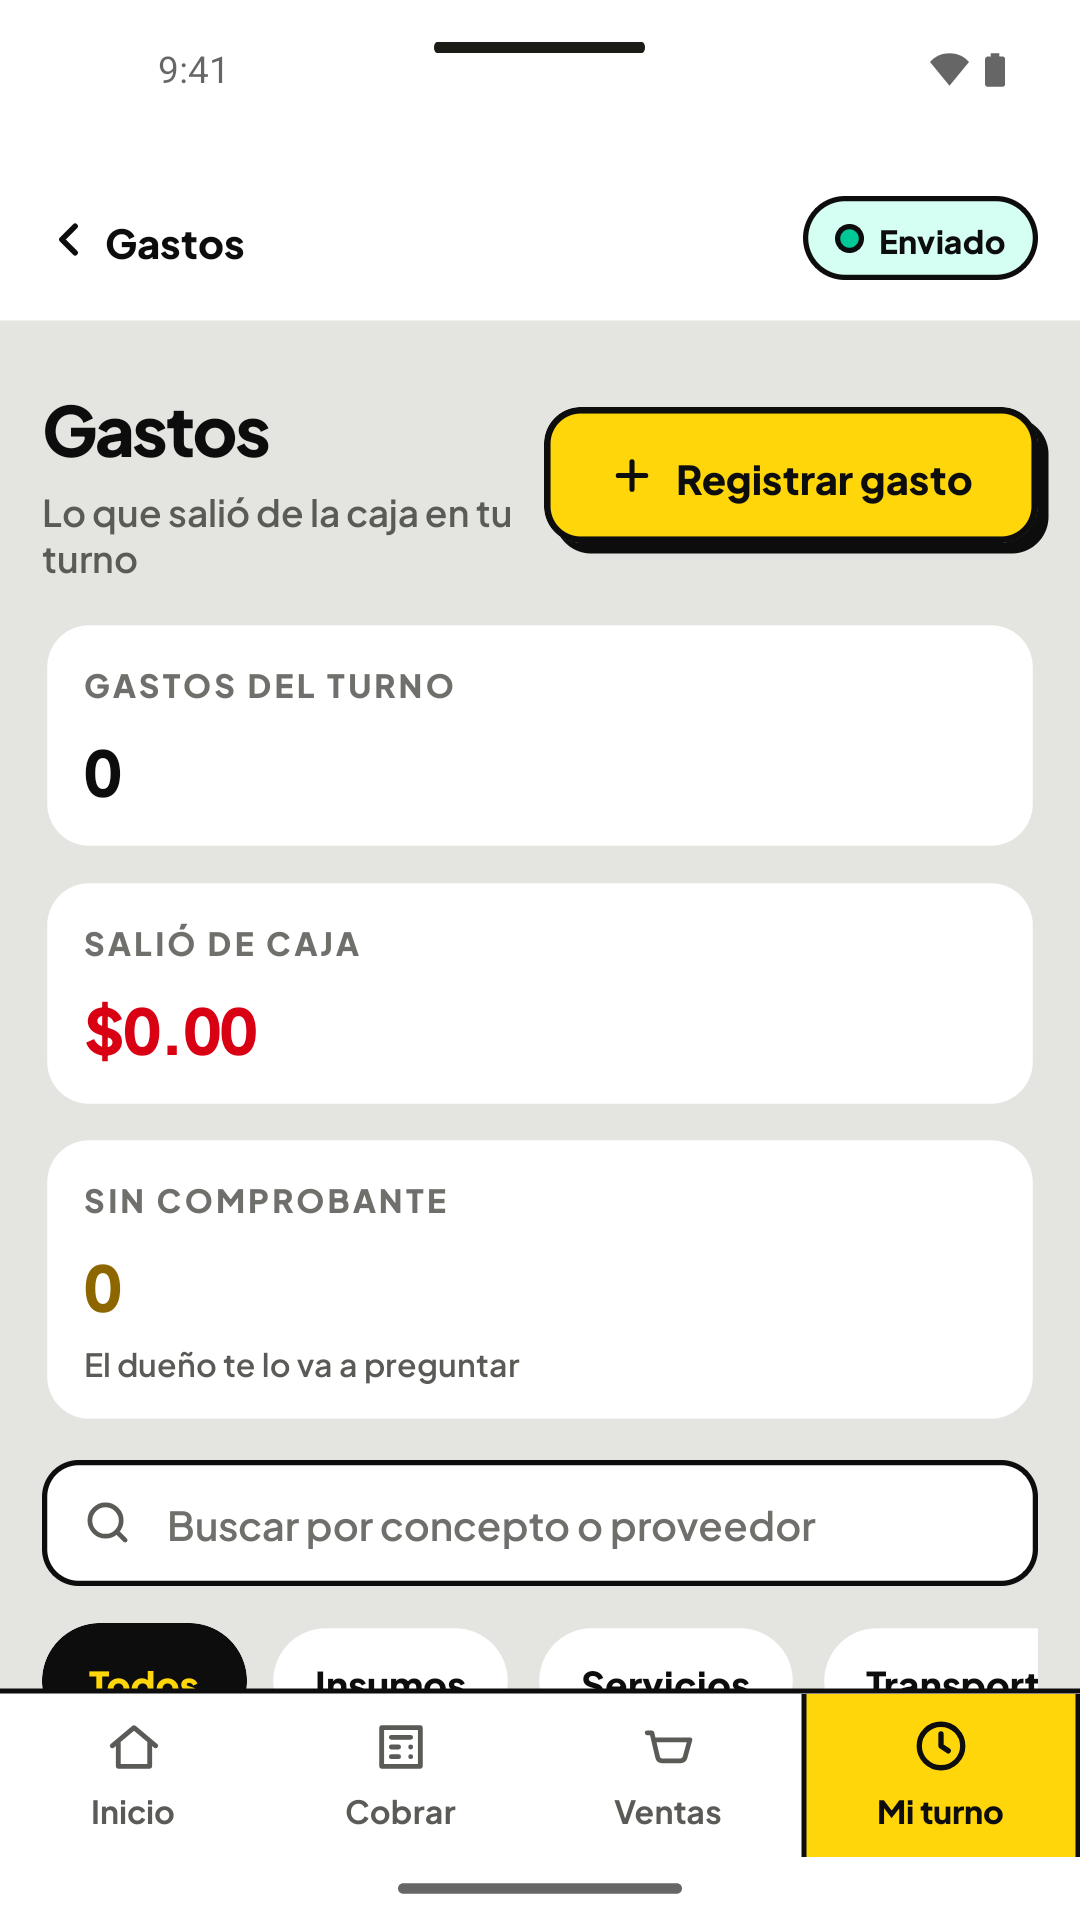
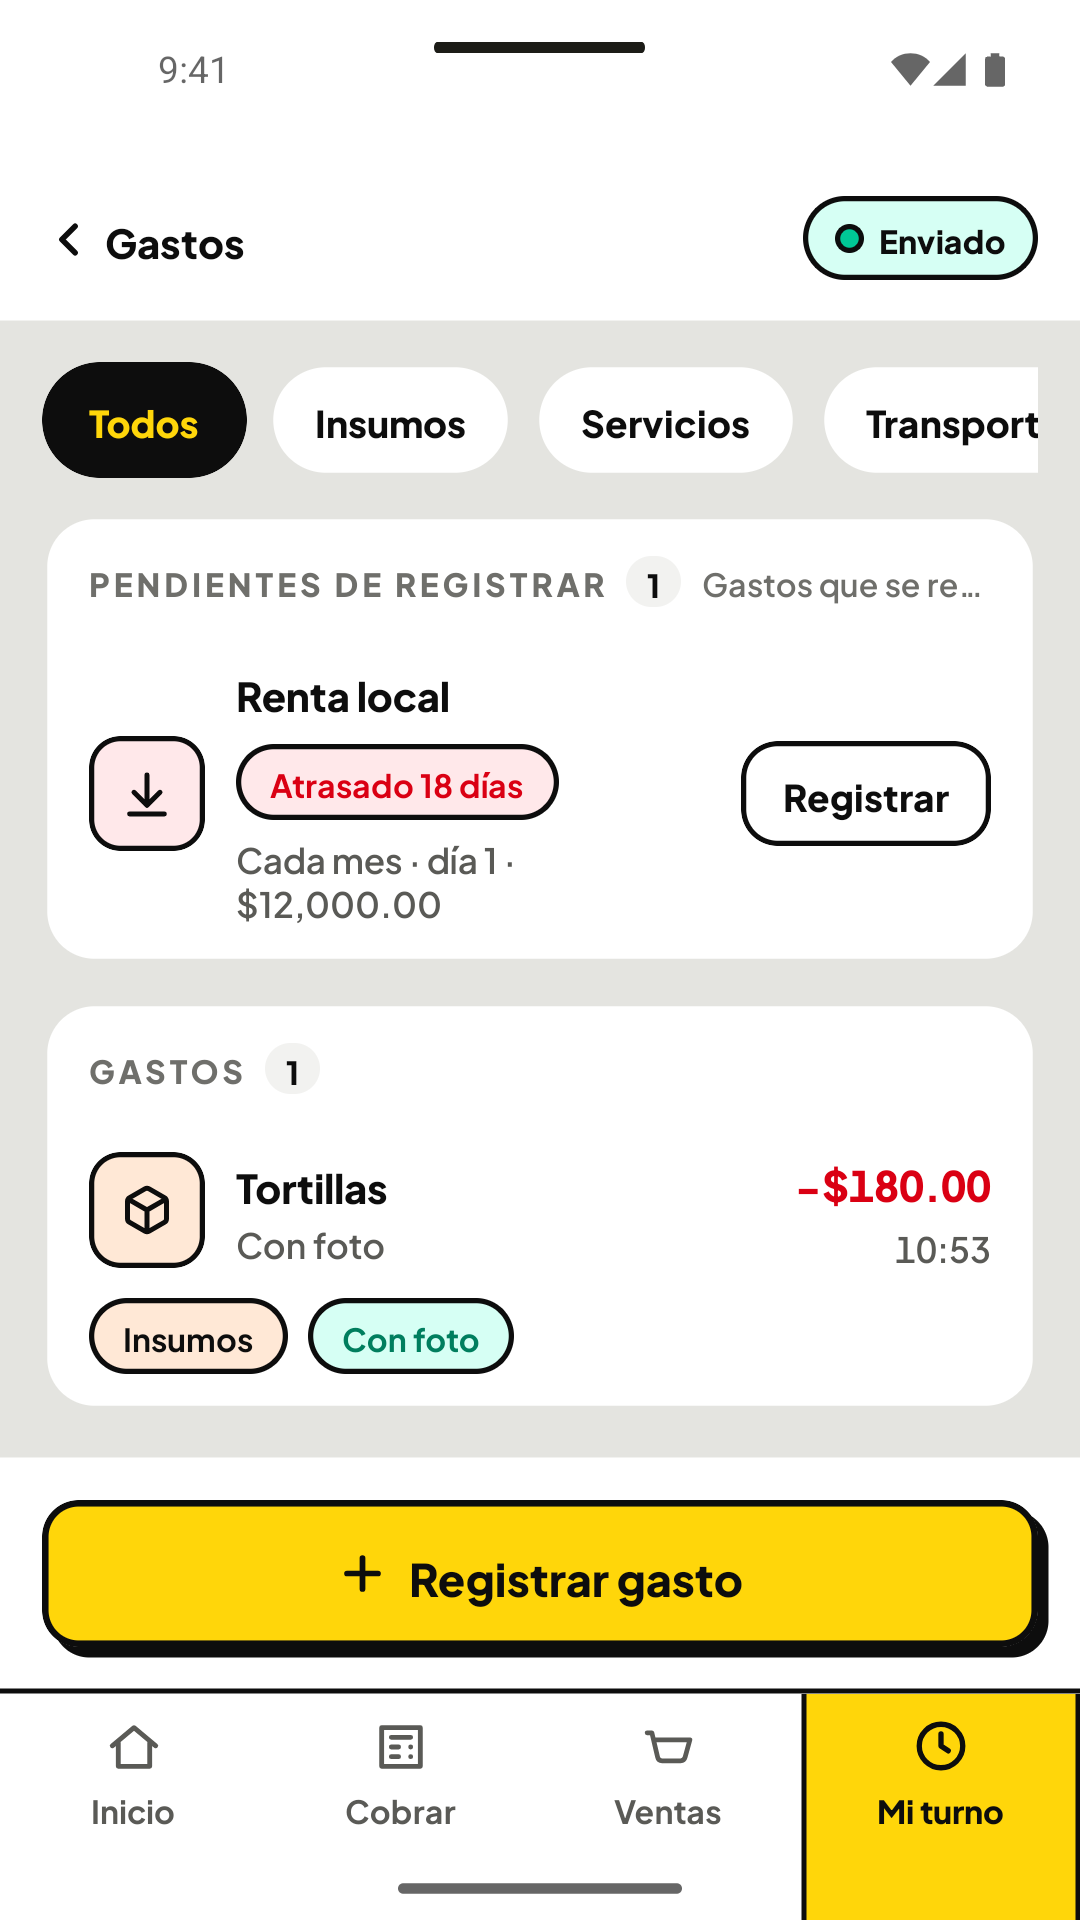
chore(store): retake the Play set in the store's order, with the receipt and the new screens
Phone (1080 × 1920) and tablet (1440 × 2560), from main: Inicio first and
Vincular last, «Caja 1», two avisos, the gasto with its photo, the redesigned
Ventas and Mi turno, signal bars, and a morning clock so Inicio says «Buenos
días». The manifest says how the debug build is prepared (no OTA signing, the
dev menu's gear off by default), how the grey box behind the app handle is
cleared, and what is still imperfect.

diff --git a/app-registration/google-play/SCREENSHOTS.md b/app-registration/google-play/SCREENSHOTS.md
@@ -1,25 +1,26 @@
 # Screenshots manifest — `screenshots/`
 
-Captured 2026-11-17 from the real app on the Android emulator, with the
-brand font (PR #117), by the same
+Captured 2026-11-19 from the real app on the Android emulator by the same
 Maestro flow as the App Store set,
 [`store-screenshots.yaml`](../../apps/mobile/maestro/flows/internal/store-screenshots.yaml),
-against the contracts mock. No compositing, no fixture screens. The story,
-the eight shots and their order are the App Store's
-([`../apple/SCREENSHOTS.md`](../apple/SCREENSHOTS.md)): a $2,000 turno, ten
-products stocked (all twenty on the tablet, whose Cobrar shows every row and
-whose Inicio lists what needs restocking), then cash with change, transfer and card.
+against the contracts mock, on `main` with the gasto's receipt photo (PR #181)
+and the redesigned Ventas and Mi turno (PRs #195, #196). No compositing, no
+fixture screens. The story, the eight shots and their order are the App
+Store's ([`../apple/SCREENSHOTS.md`](../apple/SCREENSHOTS.md)): «Caja 1», a
+$2,000 turno, all twenty products stocked, then cash with change, transfer
+and card, and one gasto, $180.00 of tortillas, with its ticket's photo picked
+from the gallery. Expected cash: $2,085.00.
 
-| Shot             | Screen                                | What it shows                      |
-| ---------------- | ------------------------------------- | ---------------------------------- |
-| `01-activacion`  | Vincular, the typed code              | This app joins an existing negocio |
-| `02-inicio`      | Inicio with the turno open            | The operator's view of the day     |
-| `03-cobrar`      | Cobrar: catalogue + ticket building   | The money screen                   |
-| `04-checkout`    | «¿Cómo paga?», $500 and the change    | Cash, card, transfer, fiado        |
-| `05-venta-hecha` | Venta hecha with «Dale de cambio»     | The sale closes, receipt goes out  |
-| `06-ventas`      | Ventas del turno                      | What the turno recorded            |
-| `07-gastos`      | Gastos del turno (cifras, categories) | What left the drawer               |
-| `08-mi-turno`    | Mi turno: the cash that must be there | The turno at a glance              |
+| Shot             | Screen                                  | What it shows                      |
+| ---------------- | --------------------------------------- | ---------------------------------- |
+| `01-inicio`      | Inicio with the turno open              | The operator's view of the day     |
+| `02-cobrar`      | Cobrar: catalogue + ticket building     | The money screen                   |
+| `03-checkout`    | «Total a cobrar», $500 and the change   | Cash, card, transfer, fiado        |
+| `04-venta-hecha` | Venta hecha with «Dale de cambio»       | The sale closes, receipt goes out  |
+| `05-mi-turno`    | Mi turno: the cash and the turno's rows | The turno at a glance              |
+| `06-ventas`      | Ventas del turno, totals and filters    | What the turno recorded            |
+| `07-gastos`      | Gastos del turno with one gasto         | What left the drawer               |
+| `08-activacion`  | Vincular, the typed code                | This app joins an existing negocio |
 
 ## Devices and sizes (Play's rules)
 
@@ -35,16 +36,18 @@ the entrada sheet and the keyboard cover «Guardar».
 
 ## Known imperfections (for the next re-shoot)
 
-- **The phone's Inicio** leaves «Efectivo esperado» ($2,265.00) below the
+- **The phone's Inicio** leaves «Efectivo esperado» ($2,085.00) below the
   tab bar: 1920 px is shorter than an iPhone, and Plus Jakarta Sans sets the
-  cards a little taller. Mi turno (08) shows the figure.
-- **Gastos** shows no gasto: the story records none, so its cifras read zero.
+  cards a little taller. Mi turno (05) shows the figure.
+- **The phone's Gastos** is scrolled to the gasto, so «Lo que salió de la caja»
+  and the cifras are above the shot.
+- **The times read past ten** (the turno «desde las 11:34» on the tablet)
+  under a 9:41 status bar: the clock was set to 9:41 so Inicio says «Buenos
+  días», and it kept running through the capture.
+- **«Renta local» reads «Atrasado 18 días»**: the mock's recurrente is due on
+  the 1st and nobody registers it in the story.
 - The shots were taken from a debug build (the dev client), which draws
   exactly what a release build draws on these screens.
-- **The order and the story changed after this capture** (2026-11-19, the
-  App Store set): the flow now numbers the files in the store's order (Inicio
-  first, Vincular last), stocks all twenty products on every device and records
-  one gasto. These files keep the old names until the December re-shoot.
 
 ## Reproducing
 
@@ -53,37 +56,57 @@ the entrada sheet and the keyboard cover «Guardar».
    with `--clear`. `10.0.2.2` is the host from the emulator: Maestro restarts
    adb, which drops any `adb reverse`. In an agent sandbox Metro's file
    watcher does not run, so restart it with `--clear` after every edit.
-2. Boot each emulator with `-no-window`: with a window, the Mac's pointer
+2. The debug dev client: `npx expo prebuild -p android`, then, in the
+   generated `android/app/src/main/AndroidManifest.xml` (gitignored, local
+   only):
+   - delete the two `expo.modules.updates.CODE_SIGNING_*` entries. The app
+     signs its OTA updates (ADR-145), and with them a debug build asks Metro
+     for a signed manifest, which Metro refuses without the private key.
+   - add
+     `<meta-data android:name="EXDevMenuShowFloatingActionButton" android:value="false"/>`
+     inside `<application>`. The dev menu's «Tools button» setting does not
+     survive a relaunch, and this sets its default to off; without it every
+     shot gets the floating gear over the status bar.
+
+   Then `./gradlew :app:assembleDebug -PreactNativeArchitectures=arm64-v8a`
+   (`JAVA_HOME` on JDK 17). A build signed with another debug key must be
+   uninstalled first.
+
+3. Boot each emulator with `-no-window`: with a window, the Mac's pointer
    resting over it hovers Android 15's app handle, and every shot gets a grey
-   box behind the bar at the top. Per emulator, once: `hw.keyboard=no` in its AVD `config.ini` (with a
+   box behind the bar at the top. The box can also come up headless; another
+   app in front (Settings) clears it, so check the top of the screen before a
+   run. Per emulator, once: `hw.keyboard=no` in its AVD `config.ini` (with a
    hardware keyboard Gboard shows only a floating bar, and the flow's
    `hideKeyboard` then presses Back and closes the app), and
    `adb shell settings put secure stylus_handwriting_enabled 0` (the Play
-   image reports its touch input as a stylus, with the same effect), the dev
-   menu's «Tools button» off (the floating gear), then install the
-   debug dev client
-   (`npx expo prebuild -p android`, then
-   `./gradlew :app:assembleDebug -PreactNativeArchitectures=arm64-v8a`),
-   `adb shell settings put global device_name Mostrador`, and SystemUI demo
-   mode: `sysui_demo_allowed 1`, then the `com.android.systemui.demo`
-   broadcasts `enter`, `clock -e hhmm 0941`,
-   `network -e wifi show -e level 4 -e fully true`, `network -e mobile hide`,
+   image reports its touch input as a stylus, with the same effect).
+4. Per boot: `adb shell settings put global device_name "'Caja 1'"` (the
+   header says the device's name); the clock at 9:41 in the morning
+   (`settings put global auto_time 0`, then `cmd alarm set-time <epoch ms>`),
+   so the greeting matches the status bar; and SystemUI demo mode:
+   `sysui_demo_allowed 1`, then the `com.android.systemui.demo` broadcasts
+   `enter`, `clock -e hhmm 0941`, `network -e wifi show -e level 4 -e fully true`,
+   `network -e mobile show -e datatype none -e level 4`,
    `battery -e level 100 -e plugged false`, `notifications -e visible false`.
    The tablet also gets `adb shell wm size 2560x1440` and `wm density 288`
    (800 dp across in portrait, the real Pixel Tablet's width, so the app
    draws its tablet rail), and is turned to portrait
    (`settings put system accelerometer_rotation 0`, then `user_rotation 1`).
-3. Per run: `adb shell run-as mx.xangarro.mobile rm -f files/SQLite/xangarro.db*`
-   (never `clearState`: it forgets the dev client's settings), open the dev
-   client at
+   Re-enter demo mode (`exit`, then `enter`) after a density change or the
+   Wi-Fi icon doubles.
+5. Per run: `adb shell "run-as mx.xangarro.mobile sh -c 'rm -f files/SQLite/xangarro.db*'"`
+   (the quotes keep the `*` for the device's shell; never `clearState`, which
+   forgets the dev client's settings), open the dev client at
    `exp+xangarro://expo-development-client/?url=http%3A%2F%2F10.0.2.2%3A8081`
    (Metro's port), then from `apps/mobile/maestro/flows/internal/`:
-   `maestro --device <serial> test -e OUT=<folder> -e FORMA=telefono -e MOCK=http://127.0.0.1:3007 store-screenshots.yaml`
-   (`FORMA=tableta` on the tablet).
-4. When other Maestro sessions are registered, Maestro skips starting its
+   `apps/mobile/maestro/scripts/maestro-locked.sh --device <serial> test --no-reinstall-driver -e OUT=<folder> -e FORMA=telefono -e MOCK=http://127.0.0.1:3007 store-screenshots.yaml`
+   (`FORMA=tableta` on the tablet). A full run takes about 25 minutes on the
+   phone and 45 on the tablet.
+6. When other Maestro sessions are registered, Maestro skips starting its
    Android driver and every command fails with `UNAVAILABLE (tcp:7001)`.
    Install `maestro-app.apk` and `maestro-server.apk` (inside
    `~/.maestro/lib/maestro-client.jar`), keep
    `adb shell am instrument -w -m -e debug false -e class 'dev.mobile.maestro.MaestroDriverService#grpcServer' dev.mobile.maestro.test/androidx.test.runner.AndroidJUnitRunner`
    running, and pass `--no-reinstall-driver`.
-5. Look at every shot before copying it here.
+7. Look at every shot before copying it here.
